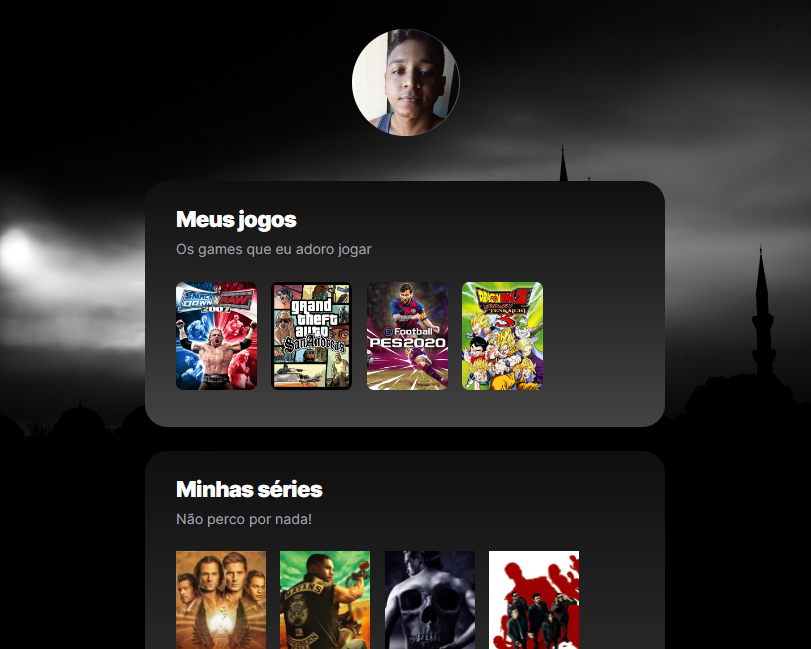
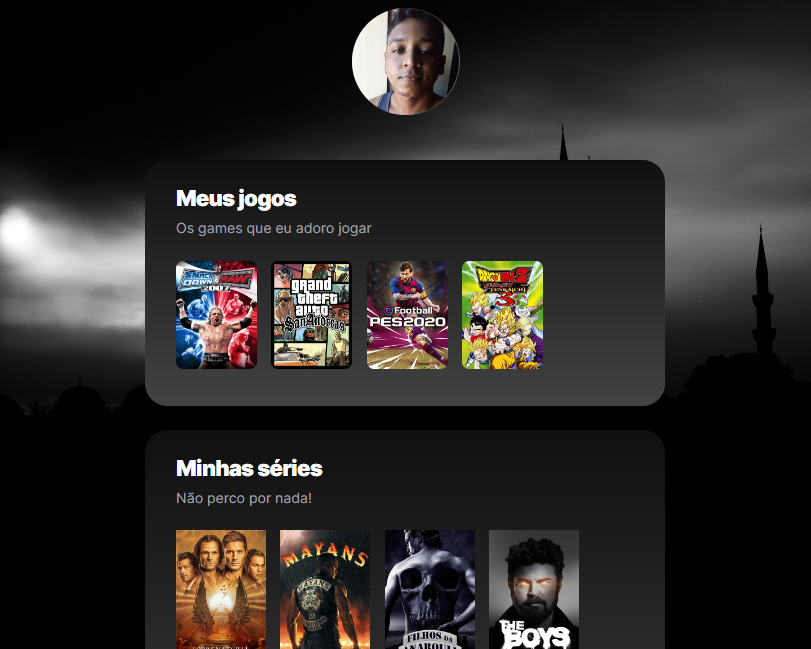
SeriesList

diff --git a/index.html b/index.html
@@ -67,32 +67,32 @@
                 <p>Não perco por nada!</p>
                 <ul class="serieslist">
                     <li>
-                        <a target="_blank" href="https://assistirseries.gratis/ver/serie/sobrenatural/online" title="Supernatural">
-                            <img src="https://assistirseries.gratis/content/series/posterPt/185/4598.webp" alt="Supernatural">
+                        <a target="_blank" href="https://www.themoviedb.org/tv/1622-supernatural?language=pt-BR" title="Supernatural">
+                            <img src="https://www.themoviedb.org/t/p/w300_and_h450_bestv2/ovFzkkKknAo2SbM2DfOabxRvzmy.jpg" alt="Supernatural">
                         </a>
                     </li>
 
                     <li>
-                        <a target="_blank" href="https://assistirseries.gratis/ver/serie/mayans-m-c-/online" title="Mayans MC">
-                            <img src="https://assistirseries.gratis/content/series/posterPt/185/4981.webp" alt="Mayans MC">
+                        <a target="_blank" href="https://www.themoviedb.org/tv/76231-mayans-mc?language=pt-BR" title="Mayans MC">
+                            <img src="https://www.themoviedb.org/t/p/w300_and_h450_bestv2/pneaBHGQ5BqGJ3afxlPezL5czZB.jpg" alt="Mayans MC">
                         </a>
                     </li>
 
                     <li>
-                        <a target="_blank" href="https://assistirseries.gratis/ver/serie/filhos-da-anarquia/online" title="Sons Of Anarchy">
-                            <img src="https://assistirseries.gratis/content/series/posterPt/185/6619.webp" alt="Sons Of Anarchy">
+                        <a target="_blank" href="https://www.themoviedb.org/tv/1409-sons-of-anarchy?language=pt-BR" title="Sons Of Anarchy">
+                            <img src="https://www.themoviedb.org/t/p/w300_and_h450_bestv2/c2zvmoBPssldx09krOANGwn1thl.jpg" alt="Sons Of Anarchy">
                         </a>
                     </li>
 
                     <li>
-                        <a target="_blank" href="https://assistirseries.gratis/ver/serie/the-boys/online" title="The Boys">
-                            <img src="https://assistirseries.gratis/content/series/posterPt/185/4810.webp" alt="The Boys">
+                        <a target="_blank" href="https://www.themoviedb.org/tv/76479-the-boys?language=pt-BR" title="The Boys">
+                            <img src="https://www.themoviedb.org/t/p/w300_and_h450_bestv2/stTEycfG9928HYGEISBFaG1ngjM.jpg" alt="The Boys">
                         </a>
                     </li>
 
                     <li>
-                        <a target="_blank" href="https://assistirseries.gratis/ver/serie/cobra-kai/online" title="Cobra Kai">
-                            <img src="https://assistirseries.gratis/content/series/posterPt/185/5491.webp" alt="Cobra Kai">
+                        <a target="_blank" href="https://www.themoviedb.org/tv/77169-cobra-kai?language=pt-BR" title="Cobra Kai">
+                            <img src="https://www.themoviedb.org/t/p/w300_and_h450_bestv2/6POBWybSBDBKjSs1VAQcnQC1qyt.jpg" alt="Cobra Kai">
                         </a>
                     </li>
 
